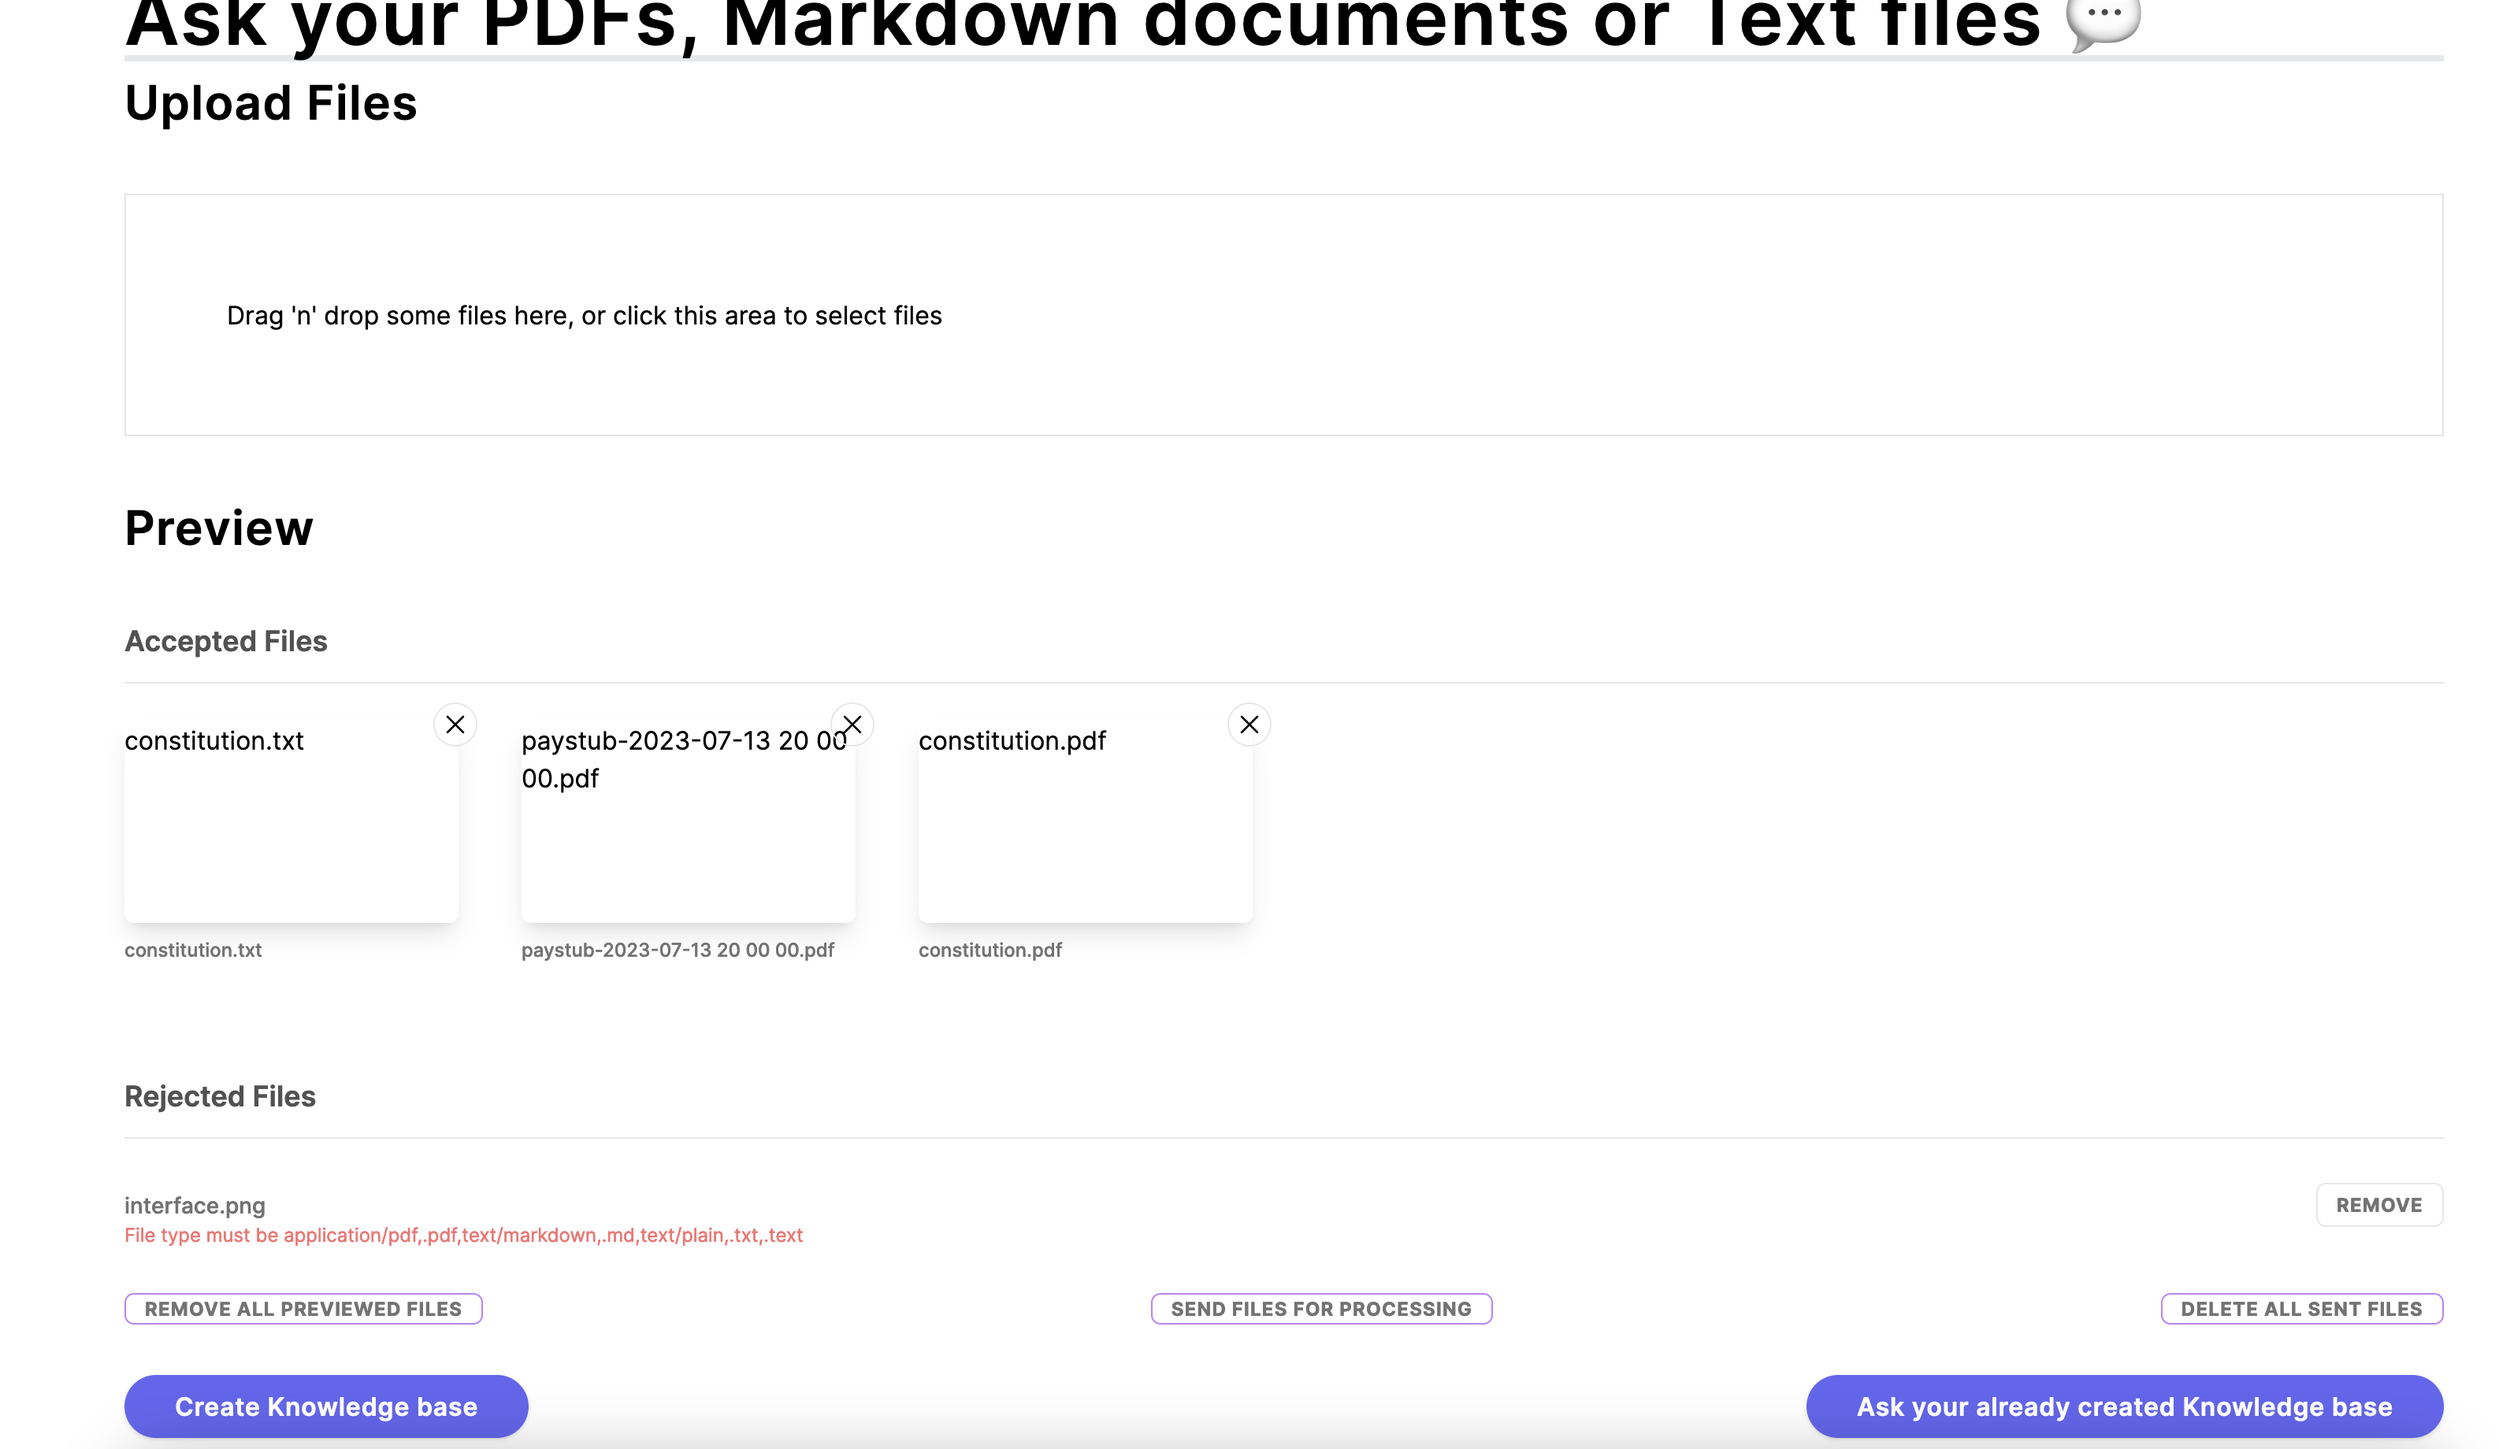
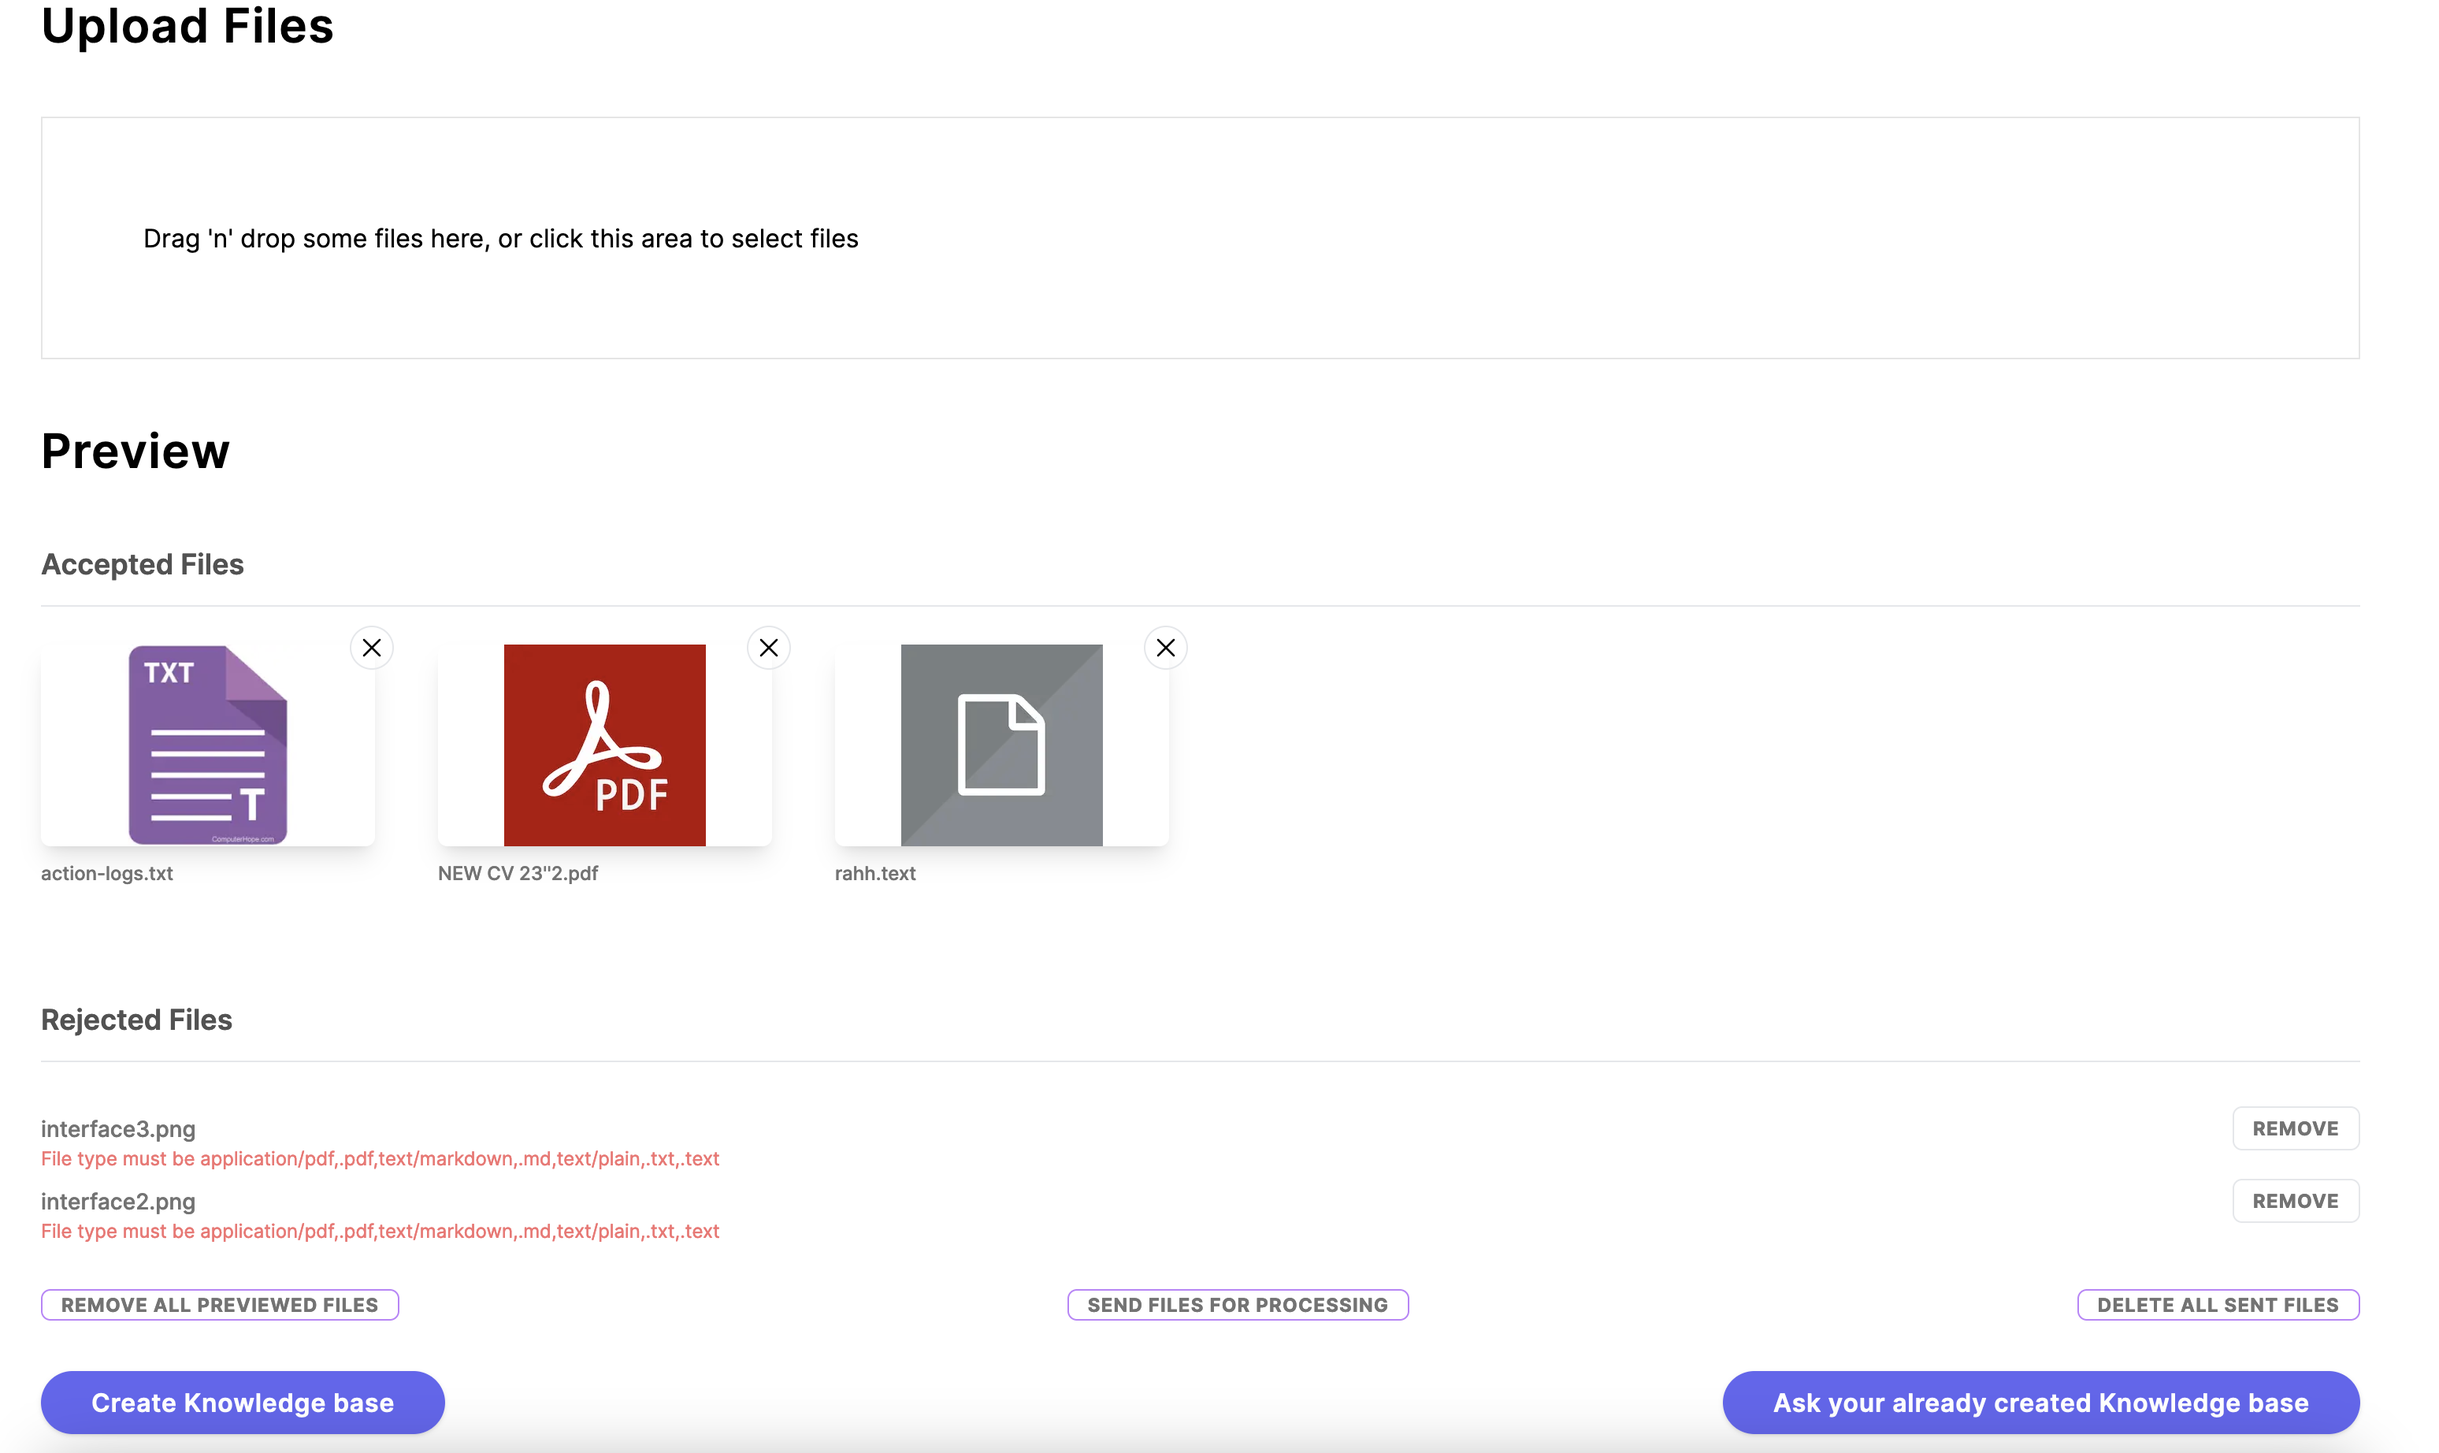
preview images, readme

diff --git a/components/Dropzone.jsx b/components/Dropzone.jsx
@@ -95,6 +95,20 @@ const Dropzone = ({ className }) => {
         }
     }
 
+    function getFileImage(fileName) {
+        const fileExtension = fileName.split('.').pop().toLowerCase();
+        switch (fileExtension) {
+            case 'md':
+                return 'markdown_image.png';
+            case 'pdf':
+                return 'pdf_image.png';
+            case 'txt':
+                return 'text_image.png';
+            default:
+                return 'default_image.png';
+        }
+    }
+
     return (
         <form onSubmit={onSubmit}>
             <div {...getRootProps({
@@ -121,7 +135,7 @@ const Dropzone = ({ className }) => {
                     {files.map(file => (
                         <li key={file.name} className='relative h-32 rounded-md shadow-lg'>
                             <Image
-                                src={file.preview}
+                                src={`/images/${getFileImage(file.name)}`}
                                 alt={file.name}
                                 width={100}
                                 height={100}

diff --git a/README.md b/README.md
@@ -94,11 +94,3 @@ Example of Interface:
 ![Example image of interface](images/interface1.png)
 ![Preview](images/interface2.png)
 ![SearchBot example](images/interface3.png)
-
-#### TODO:
-```bash
-  1. look into loading screen when the bot is creating embedings and the index, for file upload and saved files deleation
-  2. look into implementing prompts for later prompt engineering
-  3. instrument moderation following sister instrumentaion
-  4. If I decide to optimize for production, create new index with an id for each load. This will allow users to make diffrent indexs in my pinecone. will be adeal to tie it to a user id
-```
